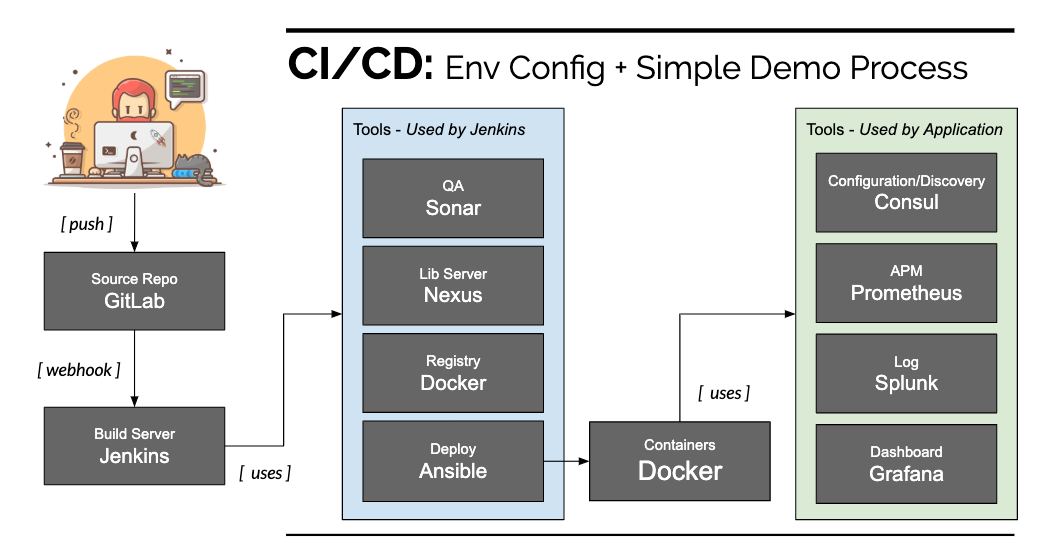
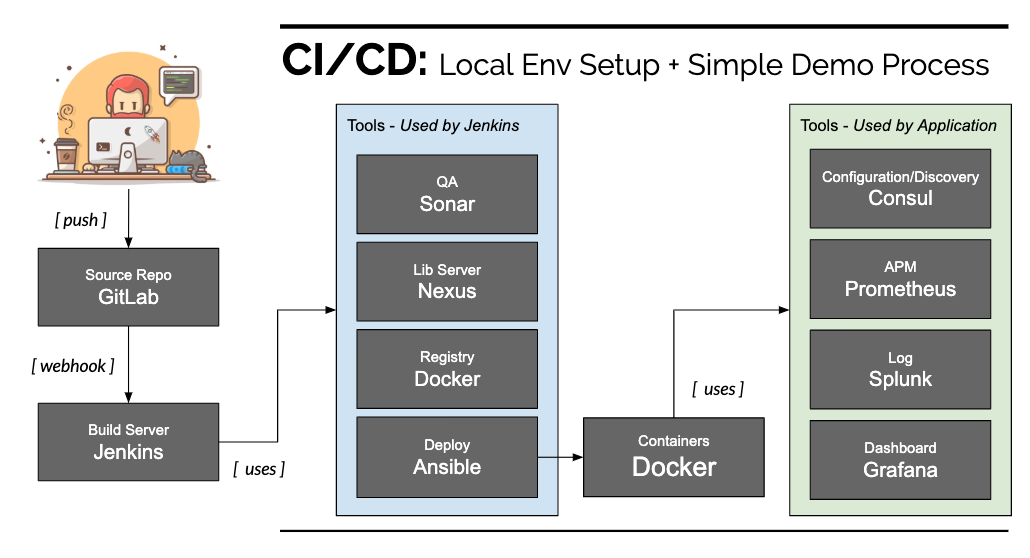
overview image

diff --git a/README.md b/README.md
@@ -1,10 +1,10 @@
 # engage-ci-cd-setup
 
-CI/CD Environment Config and Simple Demo Process.
+Local Environment Setup and a Simple Demo Process.
 
 ## Overview
 
-![Environment Config and Simple Demo Process](assets/img/overview.png "CD/CD Overview")
+![Local Env Setup + Simple Demo Process](assets/img/overview.png "CD/CD Overview")
 
 ---
 
